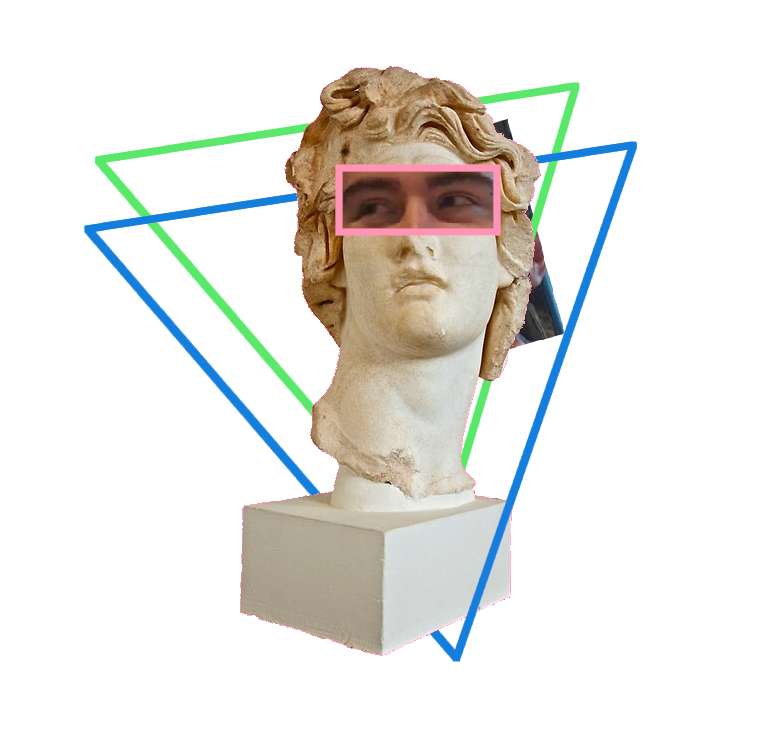
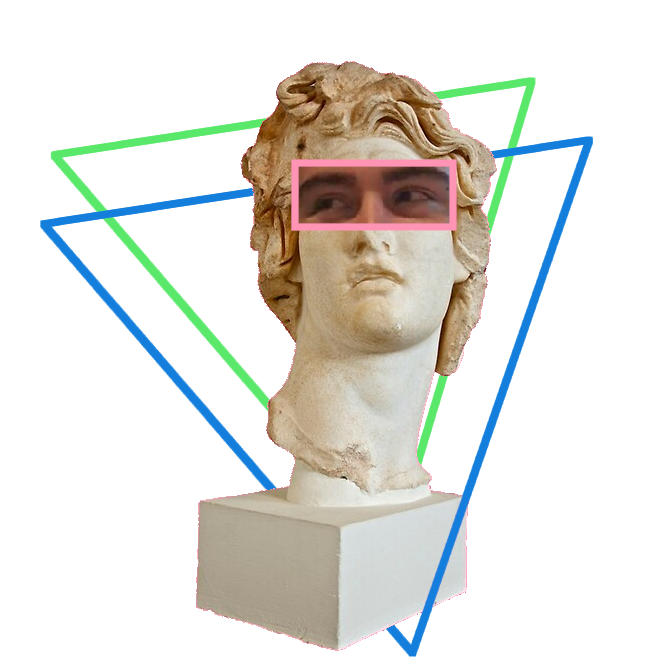
Add portfolio text, improve text styling

Changed region(s): [[0.0615, 0.0909, 0.9231, 1.0]]

diff --git a/index.html b/index.html
@@ -31,7 +31,7 @@
 	    </p>
       </div>
       <div class="col-xs-7">
-		  <div class ="figure">
+		  <div class="figure">
 		    <div class="stripes-wrapper">
 		        <div class="stripe"></div>
 		        <div class="stripe"></div>
@@ -49,6 +49,11 @@
 		        <div class="stripe"></div>
 		        <div class="stripe"></div>
 		        <div class="stripe"></div>
+		   		<div class="stripe"></div>
+		        <div class="stripe"></div>
+		        <div class="stripe"></div>
+		        <div class="stripe"></div>
+		        <div class="stripe"></div>
 		        <div class="stripe"></div>
 		        <div class="stripe"></div>
 		        <div class="stripe"></div>
@@ -59,12 +64,16 @@
 		    </div>
 		  </div>
 
-         <img src="resources/vaporwave-header.png" class="img-responsive pull-center" alt="Vaporwave">
+         <img src="resources/vaporwave-header.png" class="img-responsive" alt="Vaporwave">
       </div>
     </div>
   </div>
 
   <br><br>
+  <hr><br>
+  <h1><center>⇩ &nbsp; &nbsp; <span class="portfolio-text"> p o r t f o l i o </span> &nbsp; &nbsp; ⇩</center></h1>
+  <br><br><hr>
+  <br><br><br>
 
   <div class="container-fluid bg-3 text-center">
     <div class="row">

diff --git a/css/style.css b/css/style.css
@@ -13,13 +13,20 @@ img {
     color: #F9E8E2;
 }
 
+.portfolio-text {
+    text-shadow: #F29 -5px -5px 0px;
+}
+
 h1 {
     color: #F9E8E2 !important;
     margin-bottom: 0px !important;
+    text-shadow: #F29 1px 1px 8px;
 }
 
 h2 {
+    color: #2E2D88 !important;
     margin-top: 0px !important;
+    text-shadow: #81D3D1 1px 1px 2px;
 }
 
 a, a:visited {

diff --git a/css/vaporsun.css b/css/vaporsun.css
@@ -9,9 +9,9 @@
 .stripes-wrapper {
   width: 70%;
   height: 100%;
-  left: 30px;
+  top: 15px;
 
-  border-radius: 80% 30% 70% 10%;
+  border-radius: 80% 30% 70% 40%;
   filter: drop-shadow(0 0 20px #F29);
   overflow: hidden;
   position: absolute;
